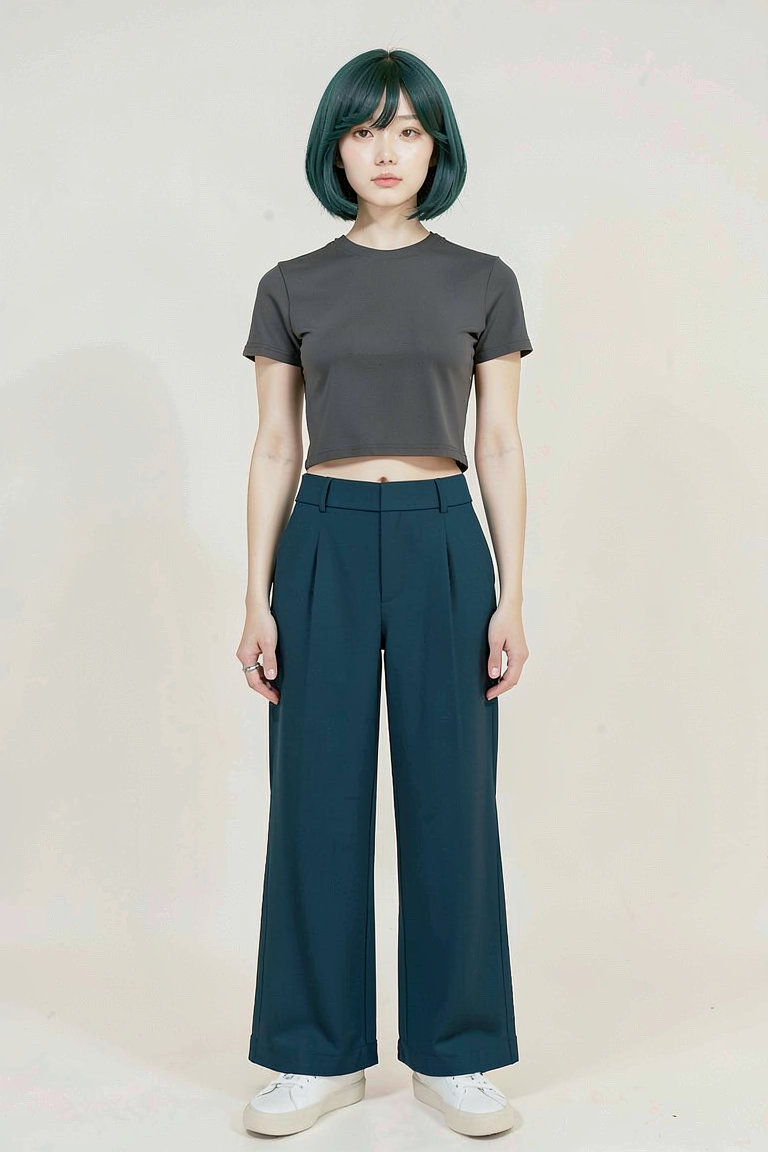
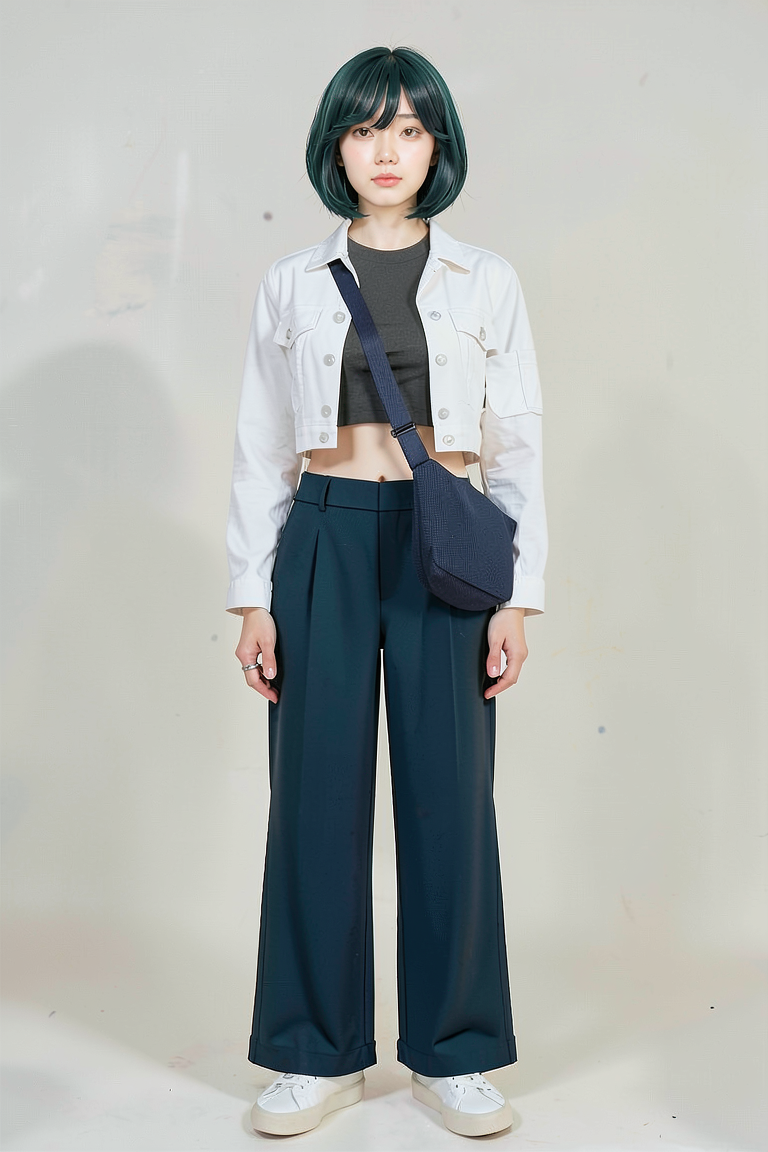
feat(part-07): 전신 보강 생성 분할 실행 지원

diff --git a/docs/assets/part-07/chapter-05/p7_5_2_refine_fullbody_face_props.py b/docs/assets/part-07/chapter-05/p7_5_2_refine_fullbody_face_props.py
@@ -1,10 +1,11 @@
 #!/usr/bin/env python3
-"""Refine approved full-body references with frontal-face identity and selected props."""
+"""Apply outfit references first, then restore visible face identity in a final pass."""
 
 from __future__ import annotations
 
 import argparse
 from datetime import datetime
+import gc
 import json
 from pathlib import Path
 import time
@@ -69,7 +70,7 @@ COMPLETE_OUTFIT_VIEW_RULES = {
     "front": "Front: retain the bag side-on beside the wearer's outer-left trouser seam, its top aligned to the waistband, and one continuous taut strap from the outer wearer's-right shoulder diagonally across the chest into the bag's upper inner attachment.",
     "front_quarter": "Front three-quarter: retain the bag at the outer wearer's-left hip, its top aligned to the waistband, below the ribs and clear of the front thigh.",
     "profile": "Profile: retain the bag at the outer wearer's-left rearward hip, its top aligned to the waistband, with the strap behind the jacket.",
-    "rear": "Rear: retain long cuffed sleeves reaching the wrists and one continuous taut deep-navy canvas strap from the outer wearer's-right shoulder diagonally across the jacket back, exiting beyond the left waistband. At the outer left hip, show only a small deep-navy woven-fabric bag corner, mostly hidden behind the torso.",
+    "rear": "Rear: replace the upper garment with the supplied white cropped utility jacket: plain white back panel, long cuffed sleeves to the wrists, and bare-skin midriff below its hem; no gray inner top is visible. Show one continuous taut deep-navy canvas strap from the outer wearer's-right shoulder diagonally across the jacket back, exiting beyond the left waistband. At the outer left hip, show only a small deep-navy woven-fabric bag corner, mostly hidden behind the torso.",
 }
 IMAGE_WIDTH = 768
 IMAGE_HEIGHT = 1152
@@ -87,7 +88,7 @@ def prop_reference_path(prop_id: str, view: str) -> Path:
     return PROPS[prop_id]["path"]
 
 
-def build_prompt(view: str, prop_ids: tuple[str, ...]) -> str:
+def build_outfit_prompt(view: str, prop_ids: tuple[str, ...]) -> str:
     prop_instructions = " ".join(PROPS[prop_id]["instruction"] for prop_id in prop_ids)
     if "complete_outfit" in prop_ids:
         prop_instructions = PROPS["complete_outfit"]["instruction"]
@@ -95,7 +96,7 @@ def build_prompt(view: str, prop_ids: tuple[str, ...]) -> str:
         prop_instructions = (
             "Add the supplied layered white cropped utility jacket worn open over the charcoal-gray crop top."
         )
-    base_clothing = "deep teal-blue trousers and white low-top sneakers"
+    base_clothing = "dark teal trousers and white low-top sneakers"
     if not {"layered_jacket_crop_top", "complete_outfit"}.intersection(prop_ids):
         base_clothing = f"charcoal-gray crop top, {base_clothing}"
     view_prop_rules = []
@@ -107,10 +108,19 @@ def build_prompt(view: str, prop_ids: tuple[str, ...]) -> str:
         view_prop_rules.append(COMPLETE_OUTFIT_VIEW_RULES[view])
     return (
         "Refine the supplied full-body reference into one full-body studio image of the same woman. "
-        "Use the CodeFormer frontal face as the identity anchor for face, eyes, nose, skin tone, hairline, and petrol-teal bob whenever visible. "
         f"Keep the supplied full-body reference's upright pose, direction, hair-to-sole framing, and {base_clothing}. "
         f"{VIEW_RULES[view]} {prop_instructions} {' '.join(view_prop_rules)} "
         "One person, complete limbs, no text or labels."
+    )
+
+
+def build_face_final_prompt(view: str) -> str:
+    """Keep the outfit pass intact while applying identity only where a face is visible."""
+    return (
+        "Use the supplied full-body image as the fixed composition, pose, clothing, bag, and full-body framing anchor. "
+        "Restore only the visible face to match the supplied frontal identity: eyes, nose, skin tone, hairline, and "
+        "petrol-teal bob. "
+        f"{VIEW_RULES[view]} Keep the outfit, limbs, and camera unchanged. One person, no text or labels."
     )
 
 
@@ -127,8 +137,8 @@ def main() -> None:
         "--props",
         nargs="+",
         choices=tuple(PROPS),
-        default=("layered_jacket_crop_top", "crossbody_bag"),
-        help="Approved props to add to each selected full-body direction.",
+        default=("complete_outfit",),
+        help="Approved props to add to each selected full-body direction; defaults to the paired complete outfit references.",
     )
     parser.add_argument("--seed-offset", type=int, default=0, help="Offset applied to the first seed.")
     parser.add_argument("--seed-count", type=int, default=1, help="Number of consecutive seed variants.")
@@ -138,18 +148,35 @@ def main() -> None:
         default="p7-5-2-fullbody-face-prop-refinement",
         help="Filename prefix placed before view, timestamp, and seed suffixes.",
     )
+    parser.add_argument(
+        "--stage",
+        choices=("all", "outfit", "face"),
+        default="all",
+        help="Run outfit only, face only from --intermediate, or both in one process.",
+    )
+    parser.add_argument(
+        "--intermediate",
+        type=Path,
+        help="Outfit-stage PNG used by --stage face.",
+    )
     args = parser.parse_args()
     if args.seed_count < 1:
         raise ValueError("seed-count must be at least 1")
     if args.seed_step == 0:
         raise ValueError("seed-step must not be zero")
+    if args.stage == "face" and args.intermediate is None:
+        raise ValueError("--stage face requires --intermediate")
 
-    reference_paths = [FACE_IDENTITY, *(BODY_REFERENCES[view] for view in args.views)]
-    reference_paths.extend(
-        prop_reference_path(prop_id, view)
-        for view in args.views
-        for prop_id in args.props
-    )
+    reference_paths = [FACE_IDENTITY]
+    if args.stage != "face":
+        reference_paths.extend(BODY_REFERENCES[view] for view in args.views)
+        reference_paths.extend(
+            prop_reference_path(prop_id, view)
+            for view in args.views
+            for prop_id in args.props
+        )
+    if args.intermediate is not None:
+        reference_paths.append(args.intermediate)
     if missing := [path.name for path in reference_paths if not path.is_file()]:
         raise FileNotFoundError(", ".join(missing))
     if not torch.cuda.is_available():
@@ -169,21 +196,48 @@ def main() -> None:
     for batch_index in range(args.seed_count):
         seed = first_seed + batch_index * args.seed_step
         for view in args.views:
-            prompt = build_prompt(view, tuple(args.props))
-            output = ROOT / f"{args.output_prefix}-{view}-{run_timestamp}-seed-{seed}-candidate.png"
+            outfit_prompt = build_outfit_prompt(view, tuple(args.props))
+            face_prompt = build_face_final_prompt(view) if view != "rear" else None
+            stem = f"{args.output_prefix}-{view}-{run_timestamp}-seed-{seed}"
+            output = ROOT / f"{stem}-candidate.png"
+            intermediate = ROOT / f"{stem}-outfit-stage.png"
             report = ROOT / f"{args.output_prefix}-{view}-{run_timestamp}-seed-{seed}-review.json"
             started = time.monotonic()
             prop_paths = [prop_reference_path(prop_id, view) for prop_id in args.props]
-            prop_images = [Image.open(path).convert("RGB") for path in prop_paths]
-            with Image.open(BODY_REFERENCES[view]) as body_source:
+            if args.stage in ("all", "outfit"):
+                prop_images = [Image.open(path).convert("RGB") for path in prop_paths]
+                with Image.open(BODY_REFERENCES[view]) as body_source:
+                    outfit_image = pipe(
+                        image=[body_source.convert("RGB"), *prop_images],
+                        prompt=outfit_prompt,
+                        width=IMAGE_WIDTH,
+                        height=IMAGE_HEIGHT,
+                        num_inference_steps=12,
+                        guidance_scale=1.0,
+                        generator=torch.Generator(device="cpu").manual_seed(seed),
+                        max_sequence_length=256,
+                    ).images[0]
+                if args.stage == "outfit":
+                    outfit_image.save(intermediate)
+                    print(f"outfit-stage -> {intermediate}")
+                    continue
+            else:
+                with Image.open(args.intermediate) as source:
+                    outfit_image = source.convert("RGB")
+            image = outfit_image
+            if face_prompt is not None and args.stage != "outfit":
+                # The first pass is a full-resolution multi-reference edit on an 8GB GPU.
+                # Release transient tensors before running the final face-only pass.
+                gc.collect()
+                torch.cuda.empty_cache()
                 image = pipe(
-                    image=[face_image, body_source.convert("RGB"), *prop_images],
-                    prompt=prompt,
+                    image=[outfit_image, face_image],
+                    prompt=face_prompt,
                     width=IMAGE_WIDTH,
                     height=IMAGE_HEIGHT,
                     num_inference_steps=12,
                     guidance_scale=1.0,
-                    generator=torch.Generator(device="cpu").manual_seed(seed),
+                    generator=torch.Generator(device="cpu").manual_seed(seed + 1),
                     max_sequence_length=256,
                 ).images[0]
             image.save(output)
@@ -201,8 +255,17 @@ def main() -> None:
                         "batch_size": args.seed_count,
                         "run_timestamp": run_timestamp,
                         "output_prefix": args.output_prefix,
-                        "prompt": prompt,
-                        "prompt_word_count": prompt_word_count(prompt),
+                        "stages": {
+                            "outfit": {
+                                "prompt": outfit_prompt,
+                                "prompt_word_count": prompt_word_count(outfit_prompt),
+                            },
+                            "face_final": {
+                                "prompt": face_prompt,
+                                "prompt_word_count": prompt_word_count(face_prompt) if face_prompt else 0,
+                                "status": "skipped_no_visible_face" if face_prompt is None else "generated",
+                            },
+                        },
                         "references": {
                             "face_identity": FACE_IDENTITY.name,
                             "body_composition": BODY_REFERENCES[view].name,
@@ -211,7 +274,7 @@ def main() -> None:
                         "model": MODEL_ID,
                         "image_size": [IMAGE_WIDTH, IMAGE_HEIGHT],
                         "elapsed_seconds": elapsed,
-                        "decision": "Review face identity, body-direction preservation, prop geometry, and strap continuity before replacing the approved full-body reference.",
+                        "decision": "Review outfit geometry before the final face pass, then review face identity, body direction, and strap continuity before replacing an approved full-body reference.",
                     },
                     indent=2,
                 ),
